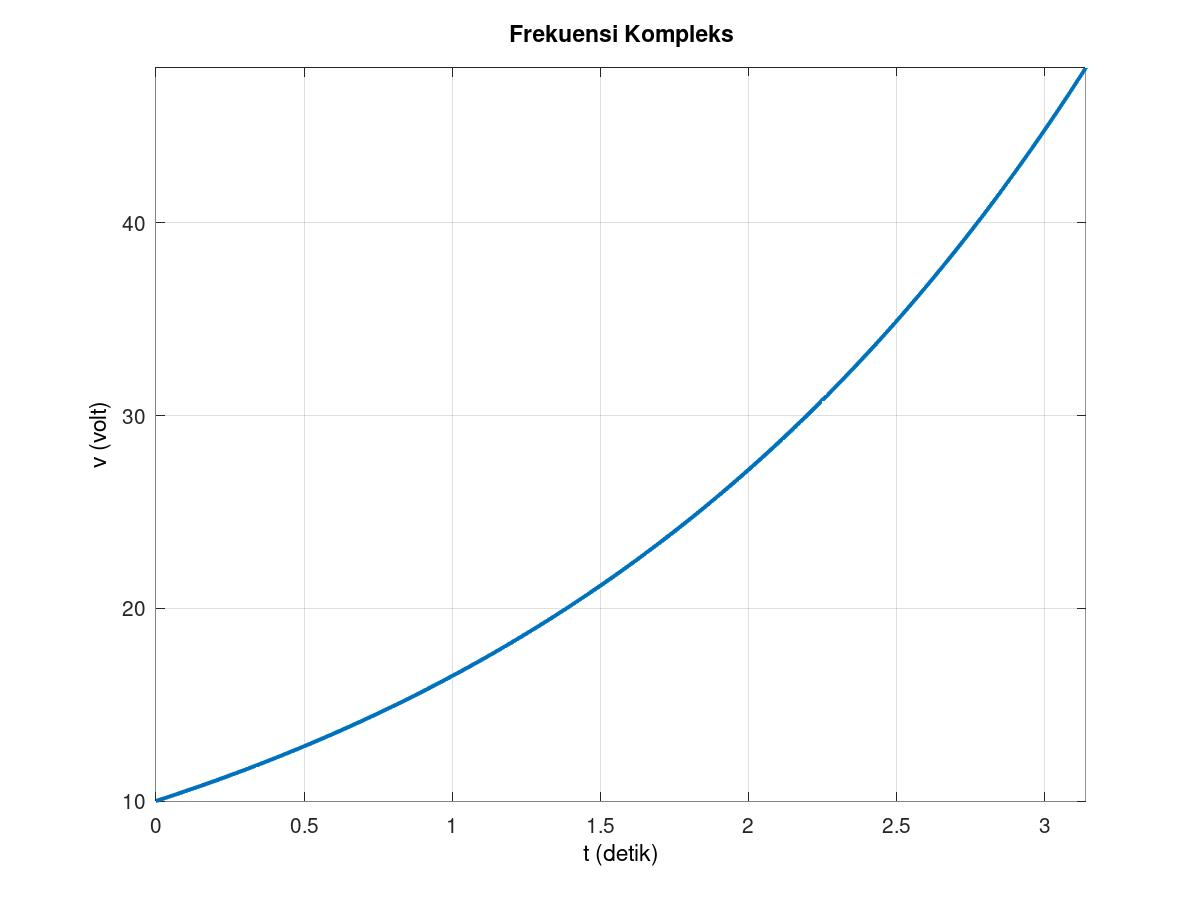
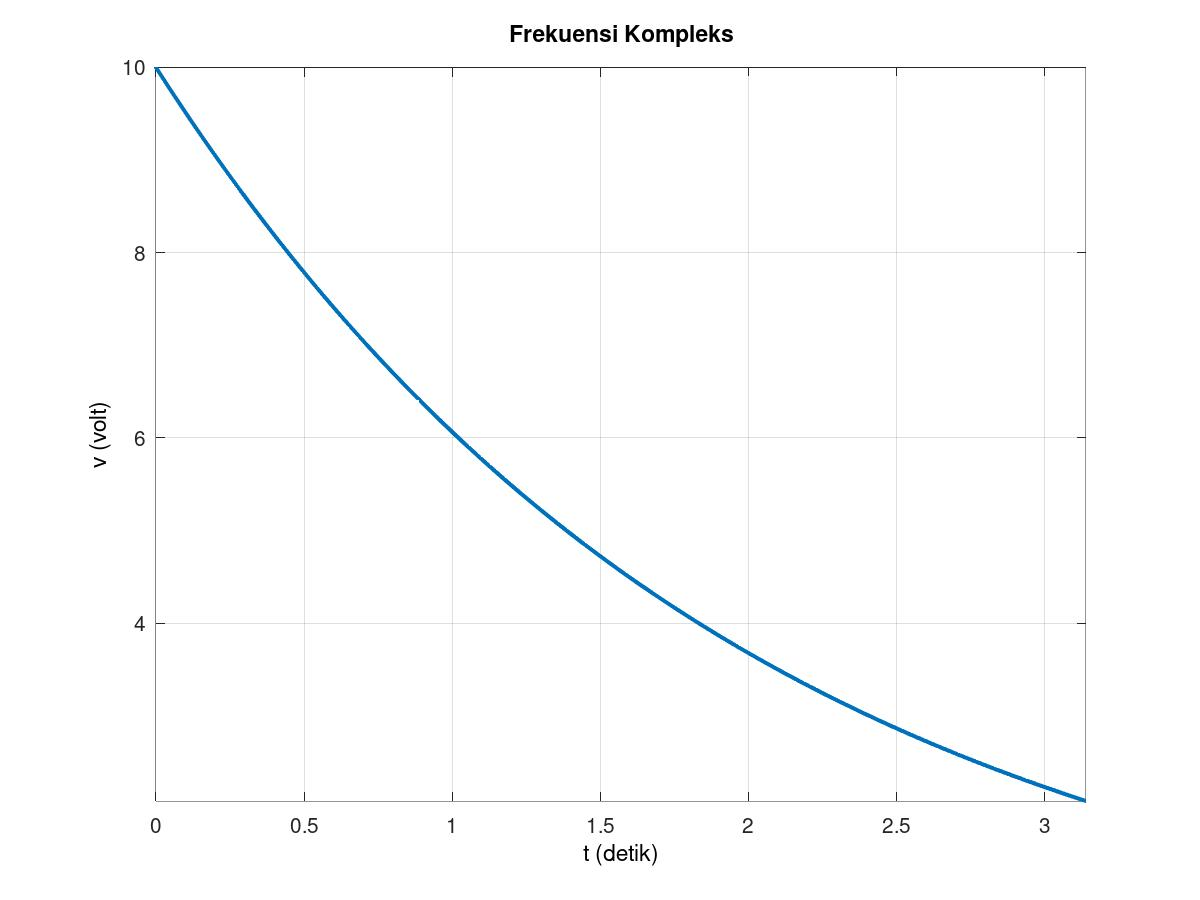
gambar untuk materi perkuliahan

diff --git a/slide/chap04/chap04.m b/slide/chap04/chap04.m
@@ -10,9 +10,9 @@ sigma = [-0.5 0 0.5]; % np/s
 
 vt = zeros(6,length(t));
 
-type = 6;
+% type = 2;
 
-if type == 1
+% if type == 1
     % 1) sigma = omega = 0
         vt(1,:) = myFun(vm, omega(1), t, theta, sigma(2));
         figure(1);
@@ -25,7 +25,7 @@ if type == 1
         set(get(gca, 'Title'), 'String', 'Frekuensi Kompleks');
         print -djpg gambar1
 
-elseif type == 2
+% elseif type == 2
     % 2) sigma = 0
         vt(2,:) = myFun(vm, omega(2), t, theta, sigma(2));
         figure(2);
@@ -38,7 +38,7 @@ elseif type == 2
         set(get(gca, 'Title'), 'String', 'Frekuensi Kompleks');
         print -djpg gambar2
 
-elseif type == 3
+% elseif type == 3
     % 3) sigma > 0, omega = 0
         vt(3,:) = myFun(vm, omega(1), t, theta, sigma(3));
         figure(3);
@@ -52,7 +52,7 @@ elseif type == 3
         print -djpg gambar3
 
 
-elseif type == 4
+% elseif type == 4
     % 4) sigma < 0, omega = 0
         vt(4,:) = myFun(vm, omega(1), t, theta, sigma(1));
         figure(4);
@@ -65,7 +65,7 @@ elseif type == 4
         set(get(gca, 'Title'), 'String', 'Frekuensi Kompleks');
         print -djpg gambar4
 
-elseif type == 5
+% elseif type == 5
     % 5) sigma > 0
         [vt(5,:), vt1, vt2] = myFun(vm, omega(2), t, theta, sigma(3));
         figure(5);
@@ -78,7 +78,7 @@ elseif type == 5
         set(get(gca, 'Title'), 'String', 'Frekuensi Kompleks');
         print -djpg gambar5
 
-elseif type == 6
+% elseif type == 6
     % 6) sigma < 0
         vt(6,:) = myFun(vm, omega(2), t, theta, sigma(1));
         figure(6);
@@ -90,4 +90,4 @@ elseif type == 6
         set(get(gca, 'YLabel'), 'String', 'v (volt)');
         set(get(gca, 'Title'), 'String', 'Frekuensi Kompleks');
         print -djpg gambar6
-end
+% end
